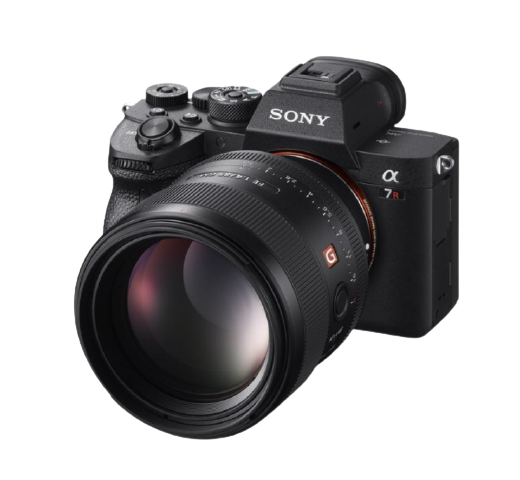
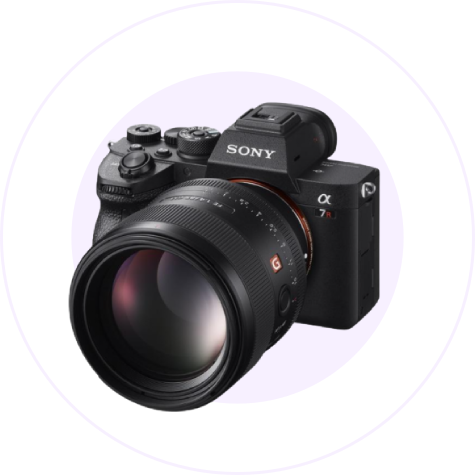
Hero photo changed

Changed region(s): [[0.1179, 0.1179, 0.8842, 0.9432]]

diff --git a/style.css b/style.css
@@ -151,8 +151,8 @@ hr {
 
 .hero-section .image-section img{
 
-    height: 406px;
-    width: 440px;   
+    height: 460px;
+    width: 460px;   
 }
 
 
@@ -411,14 +411,14 @@ footer .container .fab {
 
  .hero-section .container{
      flex-direction: column-reverse;
-     margin-top: 50px;
+     margin-top: 80px;
 
  }
  
 
  .hero-section .container .image-section img {
      width: 200px;
-     height: 184px;
+     height: 200px;
  }
 
  .hero-section .container .text-section h1{
@@ -464,7 +464,7 @@ and (max-width:992px) {
     
     .hero-section .container{
         flex-direction: column-reverse;
-        margin-top: 300px;
+        margin-top: 350px;
        
    
     }
